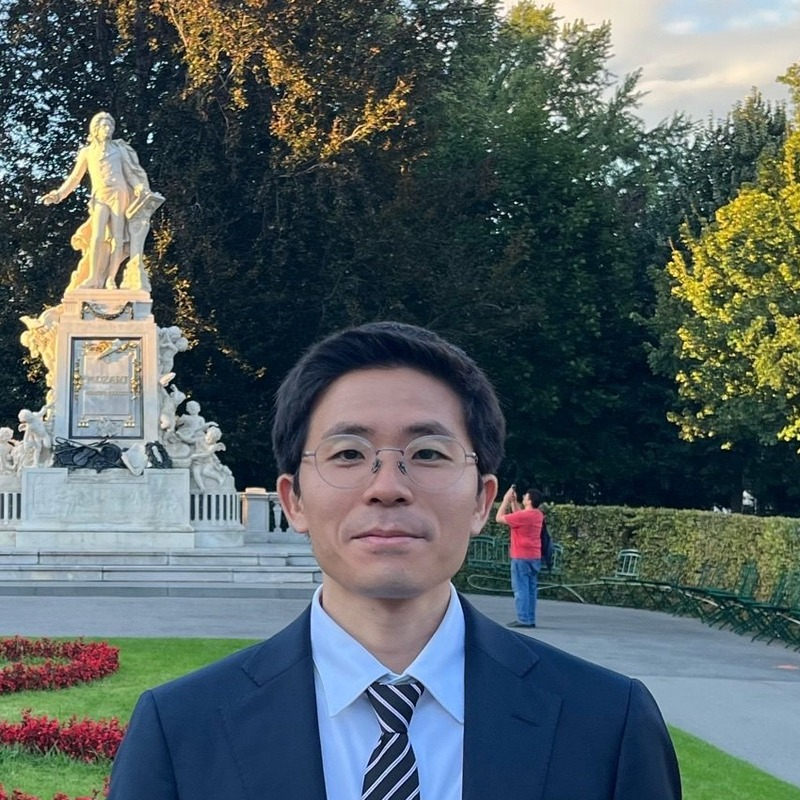
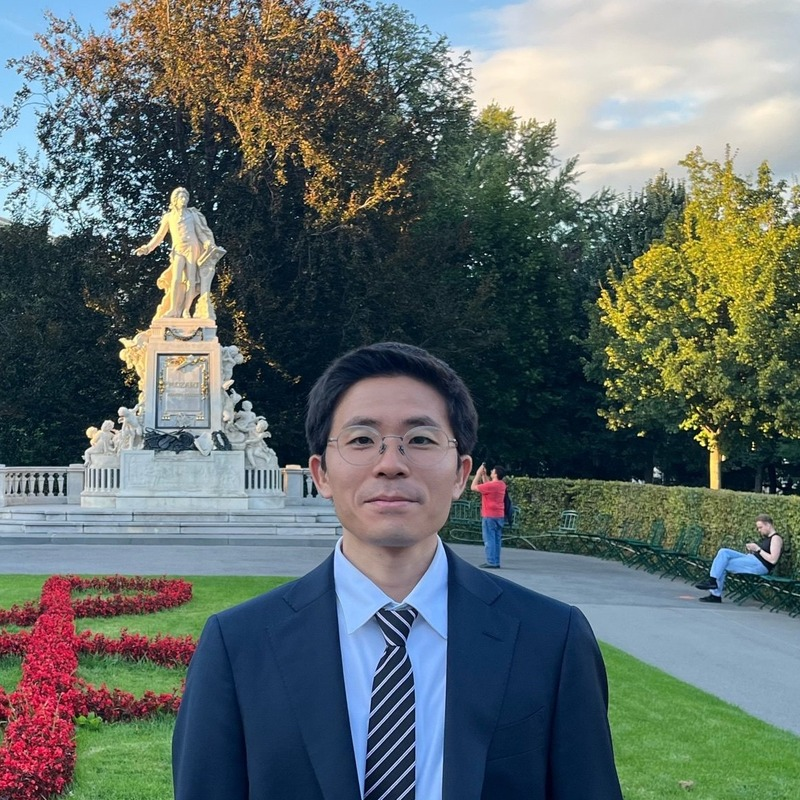
Add paper links and widen profile pic crop
- Link IVR Navigation paper to ACL Anthology PDF
- Link Adolescent Depression/Anxiety paper to PubMed
- Zoom out profile picture crop while keeping same focal point

diff --git a/index.html b/index.html
@@ -297,7 +297,7 @@
 
           <div class="resume-item d-flex flex-column flex-md-row mb-5">
             <div class="resume-content mr-auto">
-              <h3 class="mb-0"><b>Transfer Learning for Generalizable Automated LLM Improvement Pipeline for IVR Navigation</b></h3>
+              <h3 class="mb-0"><a href="https://aclanthology.org/2026.acl-industry.136.pdf"><b>Transfer Learning for Generalizable Automated LLM Improvement Pipeline for IVR Navigation</b></a></h3>
               <div class="subheading mb-3">V. S. Ram, J. Kushner, M. Paldhe, <b>Youngseo Son</b></div>
                 <p> A generalizable LLM improvement pipeline (SFT/DPO fine-tuning with in-context and online learning) for automating IVR navigation in real-time healthcare phone calls. </p>
             </div>
@@ -341,7 +341,7 @@
 
           <div class="resume-item d-flex flex-column flex-md-row mb-5">
             <div class="resume-content mr-auto">
-              <h3 class="mb-0"><b>Predicting Adolescent Depression and Anxiety from Multi-wave Longitudinal Data using Machine Learning</b></h3>
+              <h3 class="mb-0"><a href="https://pubmed.ncbi.nlm.nih.gov/36377499/"><b>Predicting Adolescent Depression and Anxiety from Multi-wave Longitudinal Data using Machine Learning</b></a></h3>
               <div class="subheading mb-3">Mariah T. Hawes, H. Andrew Schwartz, <b>Youngseo Son</b>, Daniel N. Klein</div>
                 <p> Machine learning models predicting adolescent depression and anxiety trajectories from multi-wave longitudinal survey and language data. </p>
             </div>
